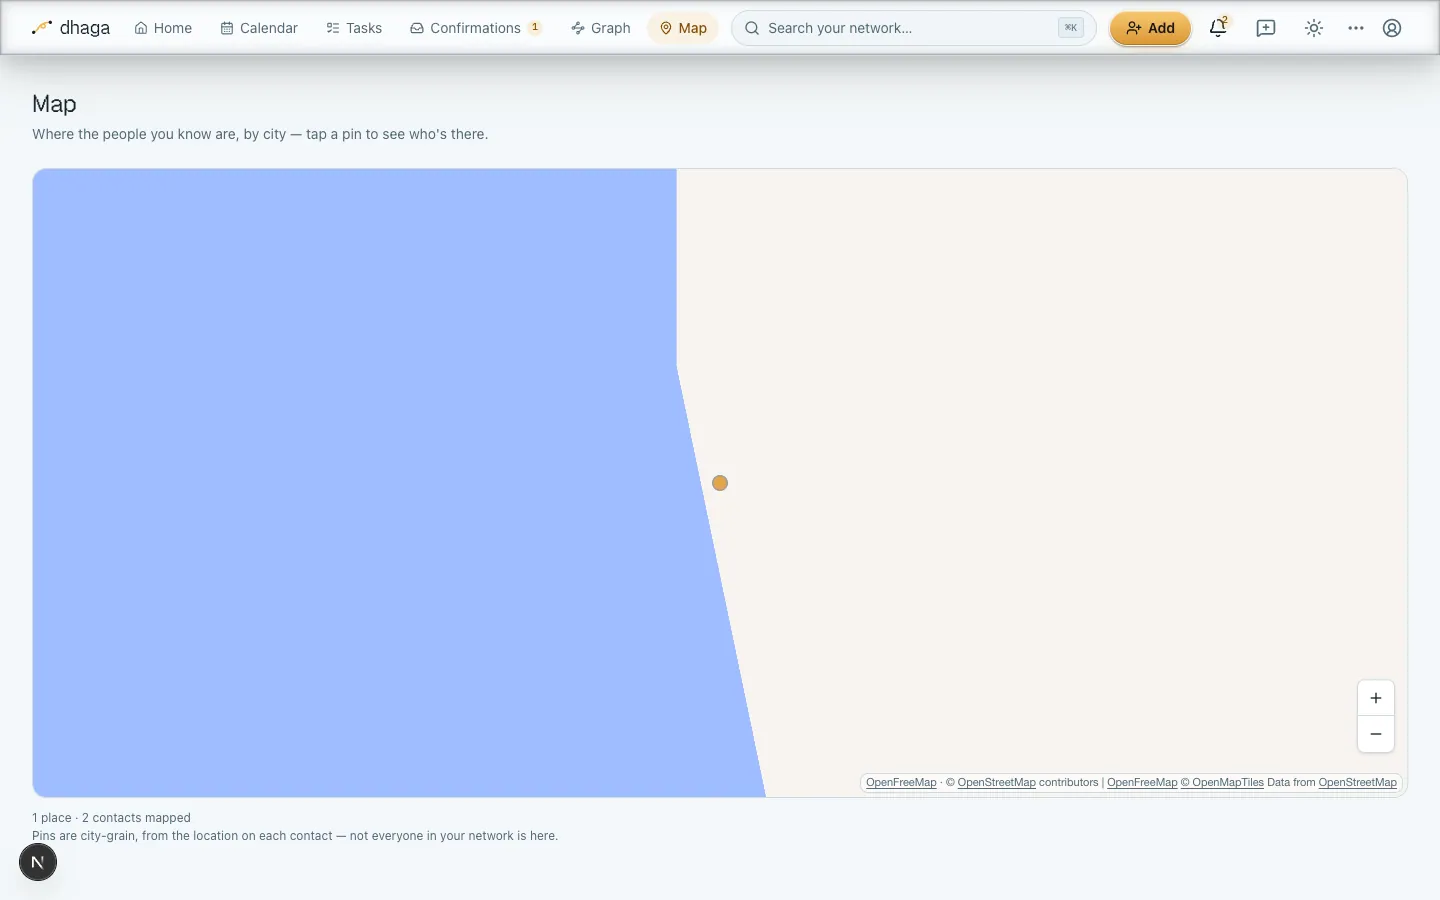
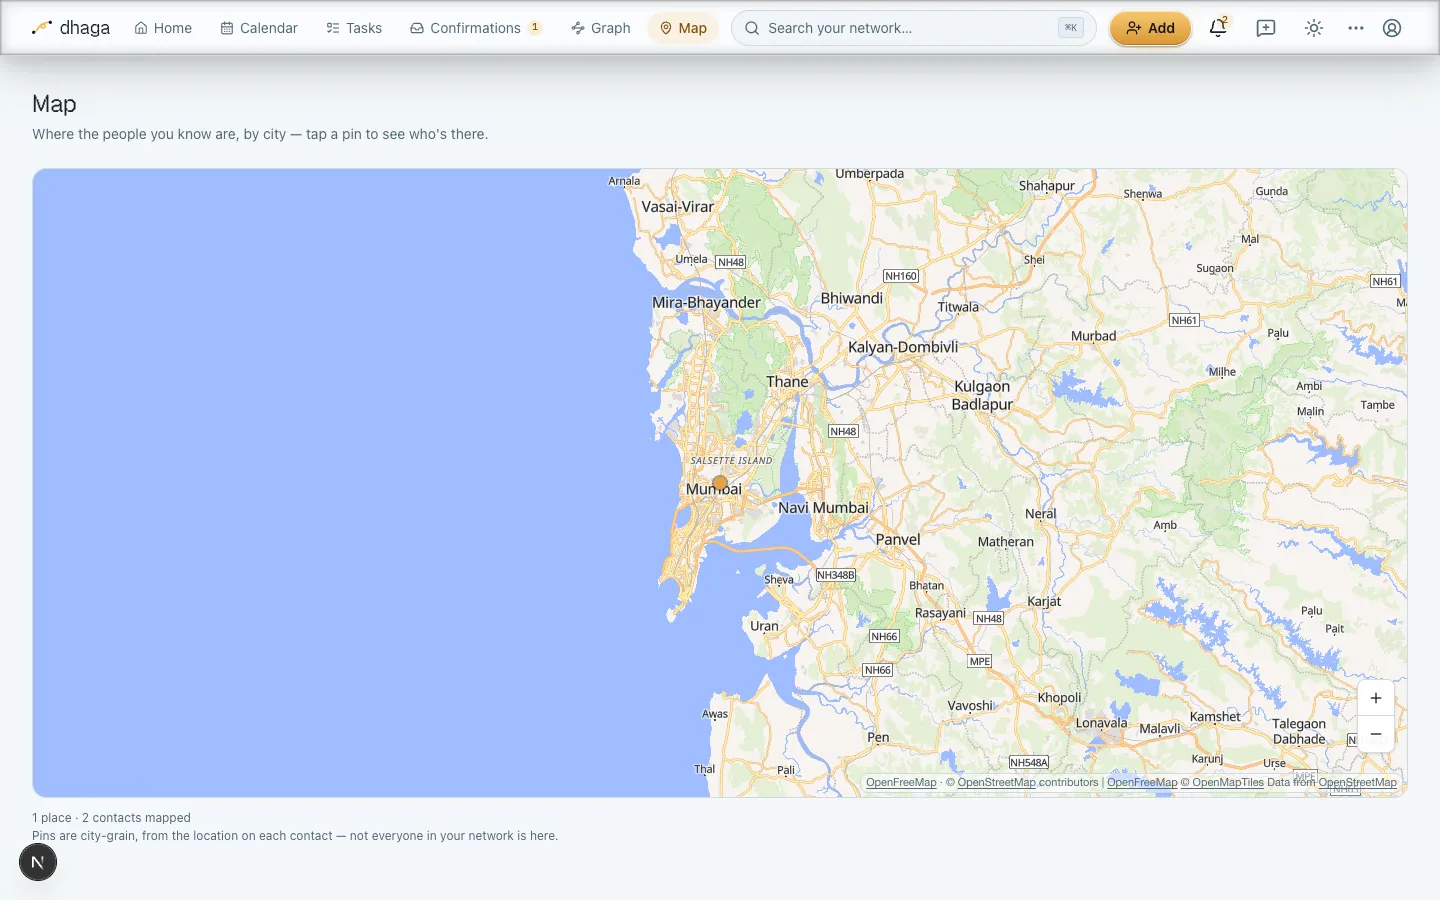
fix: complete scheduling QA and SEO hardening

Changed region(s): [[0.4062, 0.1867, 1.0, 0.9022]]

diff --git a/apps/web/src/app/seo-shell.test.ts b/apps/web/src/app/seo-shell.test.ts
@@ -40,6 +40,22 @@ function importsCoreRuntime(sourceText: string): boolean {
   });
 }
 
+function metadataProperty(sourceText: string, name: string): string {
+  const parsed = ts.createSourceFile("page.tsx", sourceText, ts.ScriptTarget.Latest, true);
+  for (const statement of parsed.statements) {
+    if (!ts.isVariableStatement(statement)) continue;
+    const declaration = statement.declarationList.declarations.find(
+      (item) => ts.isIdentifier(item.name) && item.name.text === "metadata",
+    );
+    if (!declaration?.initializer || !ts.isObjectLiteralExpression(declaration.initializer)) continue;
+    const property = declaration.initializer.properties.find(
+      (item) => ts.isPropertyAssignment(item) && item.name.getText(parsed) === name,
+    );
+    if (property && ts.isPropertyAssignment(property)) return property.initializer.getText(parsed);
+  }
+  return "";
+}
+
 describe("public shell SEO contract", () => {
   it("gives every auth/legal shell unique complete metadata", () => {
     const pages = Object.entries(PUBLIC_SHELL_PAGES);
@@ -80,15 +96,30 @@ describe("public shell SEO contract", () => {
       "src/app/reset-password/page.tsx",
       "src/app/auth/error/page.tsx",
       "src/app/privacy/page.tsx",
+      "src/app/features/page.tsx",
+      "src/app/pricing/page.tsx",
+      "src/app/open-source/page.tsx",
+      "src/app/product-tour/page.tsx",
     ];
     for (const file of routeFiles) expect(source(file)).not.toMatch(/^\s*["']use client["']/);
     const h1Shells = [
       "src/components/landing/FocusedHome/Hero.tsx",
       "src/components/blog/BlogPageHeader.tsx",
       "src/components/docs/DocsHub.tsx",
-      ...routeFiles.slice(3),
+      "src/components/landing/OpenSource.tsx",
+      ...routeFiles.slice(3).filter((file) => file !== "src/app/open-source/page.tsx"),
     ];
     for (const file of h1Shells) expect(source(file).match(/<h1\b/g)).toHaveLength(1);
+  });
+
+  it("keeps route-level Open Graph overrides attached to the shared image", () => {
+    const routes = ["features", "pricing", "open-source", "product-tour"];
+    for (const route of routes) {
+      const page = source(`src/app/${route}/page.tsx`);
+      expect(metadataProperty(page, "openGraph")).toContain(
+        'images: ["/opengraph-image.png"]',
+      );
+    }
   });
 
   it("ships image alternatives without public source maps or a Vite runtime", () => {

diff --git a/apps/web/src/components/landing/OpenSource.tsx b/apps/web/src/components/landing/OpenSource.tsx
@@ -7,9 +7,9 @@ export function OpenSource() {
       <div className="mx-auto grid max-w-6xl items-center gap-14 px-6 py-24 lg:grid-cols-2">
         <div>
           <p className="font-mono text-xs uppercase tracking-[0.22em] text-ember">Open source</p>
-          <h2 className="mt-4 max-w-none text-balance font-display text-4xl font-medium sm:text-5xl">
+          <h1 className="mt-4 max-w-none text-balance font-display text-4xl font-medium sm:text-5xl">
             <DecryptedText text="Trust you can read, line by line." />
-          </h2>
+          </h1>
           <ul className="mt-8 space-y-4">
             {OSS_PILLARS.map((pillar) => (
               <li key={pillar.bold} className="flex gap-3 text-sm">

diff --git a/apps/web/src/app/open-source/page.tsx b/apps/web/src/app/open-source/page.tsx
@@ -23,6 +23,7 @@ export const metadata: Metadata = {
     siteName: "Dhaga",
     url: `${SITE_URL}/open-source`,
     locale: "en_US",
+    images: ["/opengraph-image.png"],
   },
   twitter: {
     card: "summary_large_image",

diff --git a/apps/web/src/app/features/page.tsx b/apps/web/src/app/features/page.tsx
@@ -26,6 +26,7 @@ export const metadata: Metadata = {
     siteName: "Dhaga",
     url: `${SITE_URL}/features`,
     locale: "en_US",
+    images: ["/opengraph-image.png"],
   },
   twitter: {
     card: "summary_large_image",

diff --git a/apps/web/src/app/pricing/page.tsx b/apps/web/src/app/pricing/page.tsx
@@ -27,6 +27,7 @@ export const metadata: Metadata = {
     siteName: "Dhaga",
     url: `${SITE_URL}/pricing`,
     locale: "en_US",
+    images: ["/opengraph-image.png"],
   },
   twitter: {
     card: "summary_large_image",

diff --git a/apps/web/src/app/product-tour/page.tsx b/apps/web/src/app/product-tour/page.tsx
@@ -25,6 +25,7 @@ export const metadata: Metadata = {
     siteName: "Dhaga",
     url: `${SITE_URL}/product-tour`,
     locale: "en_US",
+    images: ["/opengraph-image.png"],
   },
 };
 

diff --git a/docs/TODOS_RECURRING_FOLLOWUPS.md b/docs/TODOS_RECURRING_FOLLOWUPS.md
@@ -1,6 +1,6 @@
 # TODOs, recurring follow-ups, and scheduling — implementation tracker
 
-Status: in progress  
+Status: complete
 Branch: `codex/todos-recurring-followups`  
 Last updated: 2026-08-06
 
@@ -26,9 +26,9 @@ screenshots, and PR handoff so the work survives context compaction.
 - [x] Fix the production MapLibre worker response policy without a new service.
 - [x] Add root `AGENTS.md`/Codex hooks; reuse already-mirrored project skills.
 - [x] Update product, checklist, testing, and user-facing docs.
-- [ ] Capture documentation screenshots in light/dark themes and at 375px.
-- [ ] Validate local/preview behavior after the completed production baseline.
-- [ ] Deliver one branch, one pushed PR.
+- [x] Capture documentation screenshots in light/dark themes and at 375px.
+- [x] Validate local/preview behavior after the completed production baseline.
+- [x] Deliver one branch, one pushed PR.
 
 ## Acceptance criteria
 
@@ -100,8 +100,8 @@ screenshots, and PR handoff so the work survives context compaction.
   legacy keep-in-touch controls, and Map failure were reproduced without writes.
 - Chrome/CDP isolated the Map failure to the worker's mismatched COEP response;
   owner payload, worker bytes, and style response were otherwise healthy.
-- Web serial suite: 215 files / 1,212 tests passed. Core: 171/171. Mobile:
-  75/75. Codex hooks: 10/10. Focused SEO/Map: 7/7 before later integration tests.
+- Final web serial suite: 218 files / 1,219 tests passed. Core: 171/171.
+  Mobile: 75/75. Codex hooks: 10/10. Focused final SEO: 5/5.
 - Web/core/mobile/EE typechecks pass. EE: 24 pass and 40 live-RLS cases skip
   without a disposable `DATABASE_URL`; its remaining 7 tests pass, 1 skips.
 - Web lint exits 0 with pre-existing vendored warnings. Mobile lint is blocked by
@@ -109,27 +109,28 @@ screenshots, and PR handoff so the work survives context compaction.
 - The default Turbopack production build reproducibly stalls during optimization.
   `next build --webpack` passes all 281 static pages after removing broad core
   imports from the browser graph; only known auth-env/rate-limiter warnings remain.
-- Local authenticated browser QA and committed screenshots remain open because
-  the in-app browser security policy rejected authenticated localhost navigation.
-- Documentation mirrors and screenshot targets are updated; actual screenshots,
-  local/preview browser validation, push, and PR remain open.
+- The approved local Playwright runner completed nine authenticated/public flows
+  with zero unexpected page or console errors. It also asserted Map worker COEP,
+  live canvas rendering, weekend confirmation, Calendar placement, and mobile UI.
+- Nine optimized WebPs document light desktop, dark desktop loading, and 375px
+  light/dark screens; every asset is embedded once in the relevant public guide.
 
 ## Public/app shell quality audit (15 checks)
 
-- [~] 1. View source: server route shells exist; rendered HTML check remains.
+- [x] 1. View source: nine production-built shells return meaningful server HTML.
 - [x] 2. Vite runtime: source audit finds none; the app is Next.js.
 - [x] 3. Page titles: public/auth shells have distinct metadata.
 - [x] 4. Meta descriptions: complete for public/auth shells.
 - [x] 5. `og:image`: file-based image plus shell metadata.
 - [x] 6. Structured data: Organization, WebSite, and blog Article JSON-LD.
-- [~] 7. Multiple H1s: audited shells have one; browser sweep remains.
-- [~] 8. Missing H1s: audited shells have one; browser sweep remains.
+- [x] 7. Multiple H1s: nine rendered public/auth shells each have exactly one.
+- [x] 8. Missing H1s: nine rendered public/auth shells each have exactly one.
 - [x] 9. Canonical: public/auth shells use route-specific canonicals.
 - [x] 10. AI robots: explicit public allow; `/app` and `/api` stay private.
 - [x] 11. Language: root HTML declares `lang="en"`.
-- [x] 12. Alt text: source test covers JSX image tags; browser sweep remains.
+- [x] 12. Alt text: source test and nine rendered shells find no missing `alt`.
 - [x] 13. Source maps: production browser source maps are not enabled.
-- [ ] 14. Console errors: local/preview browser evidence remains.
+- [x] 14. Console errors: nine-flow local QA reports zero unexpected errors.
 - [x] 15. JS bundle: client runtime imports no longer use the server-heavy core
        barrel. Emitted route graphs gzip to 464 KB (Tasks), 461 KB (Map), and
        538 KB (Calendar); the largest individual chunk is 131 KB gzip.
